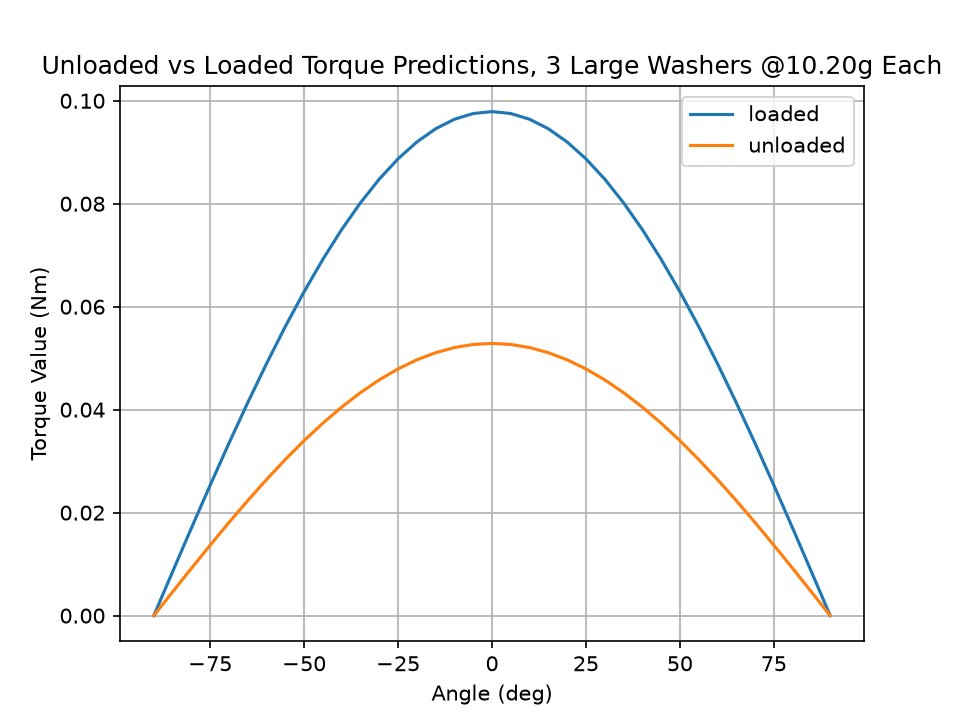
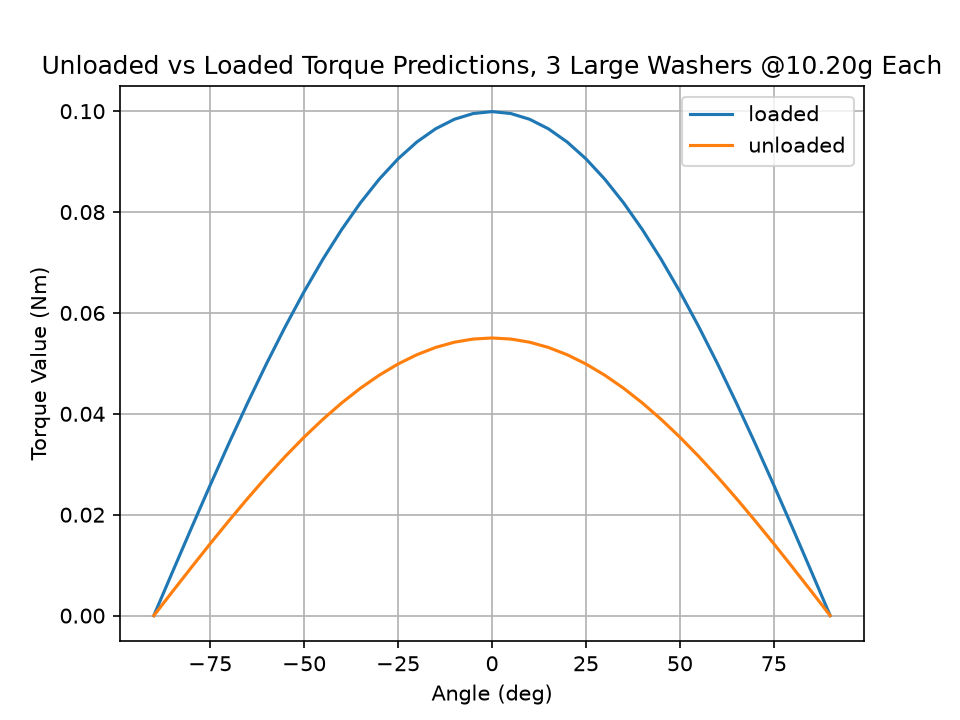
Mk2 gravity model: update constants and regenerate predictions

diff --git a/analysis/constants.py b/analysis/constants.py
@@ -1,4 +1,4 @@
-arm_mass_kg = 0.05759
-arm_com_radius_m = 0.09358
-load_mass_kg = 0.03060
-load_radius_m = 0.150
+arm_mass_kg = 0.05892       # 35.50 + 10.71 + 10.71 + 2 (dowel pin mass assumed) g
+arm_com_radius_m = 0.09522  # (35.50*76 + 10.71*100 + 10.71*149.5 + 2*120) / 58.92 mm
+load_mass_kg = 0.03060      # 3 large washers, 10.20 g each
+load_radius_m = 0.1495      # mount 2

diff --git a/pico/motorDrive.py b/pico/motorDrive.py
@@ -7,7 +7,7 @@ dir_pin = Pin(15,Pin.OUT)
 max_possible_duty = 65535.0
 duty_pct = 20.0
 duty_pct = max(0, min(duty_pct, 20))
-duty_LIMIT = 30
+duty_LIMIT = 50
 
 
 def setMotor(command) : 
